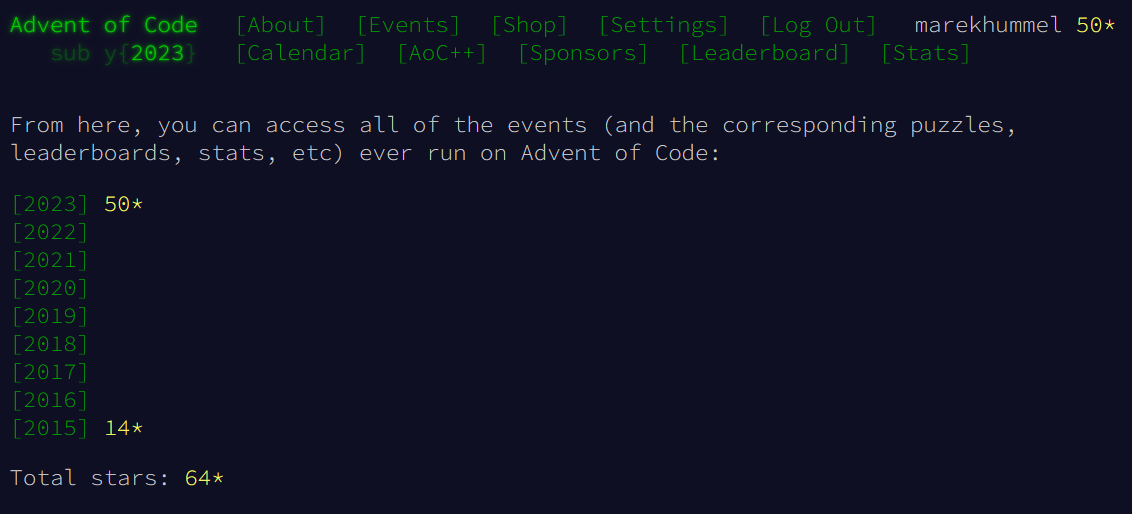
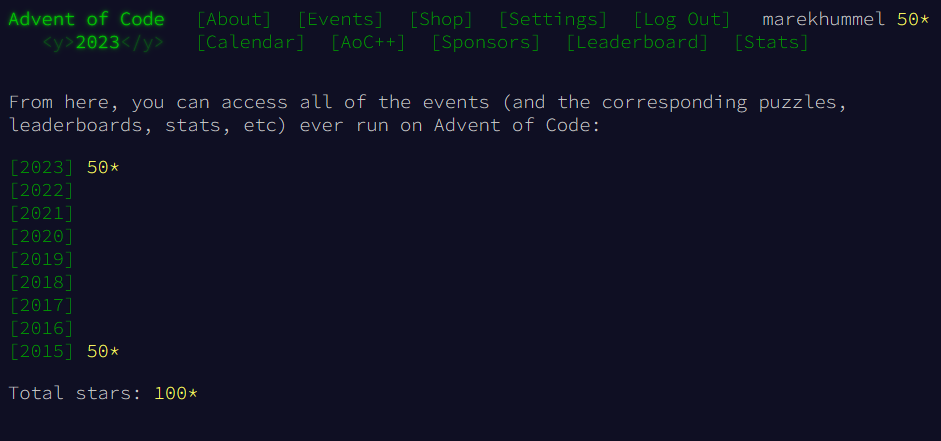
Finalized 2015

diff --git a/2015/rust/main.rs b/2015/rust/main.rs
@@ -30,9 +30,9 @@ use std::env;
 
 use aoc_lib::solution::Solution;
 
-const ALL: bool = true;
-const VERSION: u8 = 2;
-const USE_SAMPLE: bool = false;
+const ALL: bool = false;
+const VERSION: u8 = 1;
+const USE_SAMPLE: bool = true;
 
 fn main() {
     let solutions: Vec<Box<dyn Solution>> = vec![
